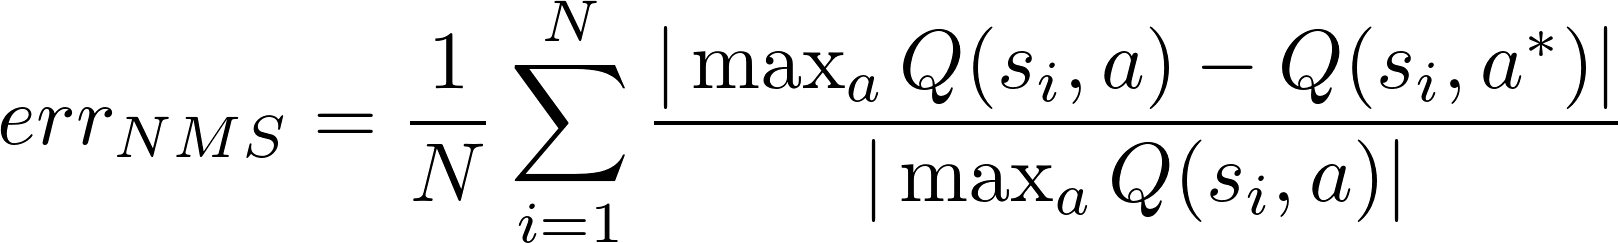
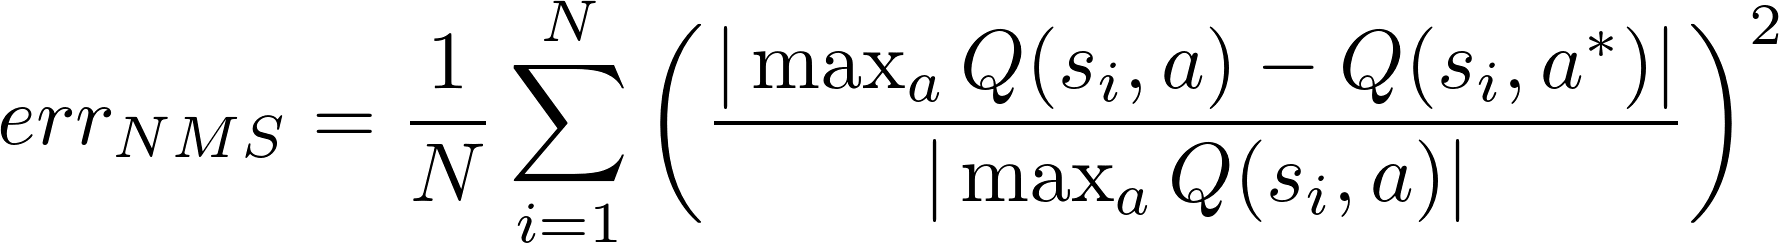
working on readme

diff --git a/README.md b/README.md
@@ -103,15 +103,33 @@ is replaced with
 
 Note that this doesn't truly decouple action selection and evaluation because the target network is a copy of a previous online network.
 
-## Results
+## Analysis
 ### Evaluating the Model
-In addition to the "eyeball test" of Swain Bot's predictions (i.e. no illegal submissions, correct number of roles, overall "meta-feel" of drafts, etc.), we're also interested in a quantitative measure of performance. One approach is to treat predictions as we would with a classifier and measure the fraction of predictions which agree with what was actually submitted in a winning draft. However, it's important to recall that our objective is to predict valuable submissions which may not necessarily overlap with what a specific team is likely to submit. It is often the case that multiple submissions have roughly equal value (this is particularly true for bans and early submissions) and that selecting from them is mostly a function of the biases of the drafting team. Since team identities aren't included as part of the input, it is unrealistic to expect the model to match the exact submission made for every team. A simple way to try and compensate for this is to group the top `k` submissions and regard these as a set of "good" picks according to the model. Then we measure accuracy as the fraction of submissions made that are contained in the predicted "good" submission pools for each state. 
+In addition to the "eyeball test" of Swain Bot's predictions (i.e. no illegal submissions, correct number of roles, overall "meta-feel" of drafts, etc.), we're also interested in a quantitative measure of performance. 
 
-Another approach is to examine the difference in estimated Q-values between the top prediction (`max_a{Q(s,a)}`) and the actual submission (`Q(s,a*)`). The difference between these two values estimates how far off the actual action that was submitted is from taking over the top prediction. If `a*` is really a good submission for this state this difference should be relatively small. If we use this to compute a normalized mean square error over a set of states we should get an estimate of the model performance:
+One approach is to treat predictions as we would with a classifier and measure the fraction of predictions which agree with what was actually submitted in a winning draft. However, it's important to recall that our objective is to predict valuable submissions which may not necessarily overlap with what a specific team is likely to submit. It is often the case that multiple submissions are suited for the draft and as a result each have roughly equal value (this is particularly true for bans and early submissions). Selecting amongst these valid picks is mostly a function of the biases of the drafting team. Since team identities aren't included as part of the input, it is unrealistic to expect the model to match the exact submission made for every team. A simple way to try and compensate for this is to group the top `k` submissions and regard these as a set of "good" picks according to the model. Then we measure accuracy as the fraction of submissions made that are contained in the predicted "good" submission pools for each state. 
+
+Another approach is to examine the difference in estimated Q-values between the top prediction (`max_a{Q(s,a)}`) and the actual submission (`Q(s,a*)`). The difference between these two values estimates how far off the actual action that was submitted is from taking over the top prediction. If `a*` is really a good submission for this state this difference should be relatively small. If we use this to compute a normalized mean squared error over a set of states we should get an estimate of the model performance:
 
 <img src="common/images/nms_error.png" width="360">
 
-Notice that if the model were to assign all actions the same value then this measure of error would be trivially zero. So just like the classification measure of accuracy, this measure of error is not perfect.
+Note that if the model were to assign all actions the same value then this measure of error would be trivially zero. So just like the classification measure of accuracy, this measure of error is not perfect. Nevertheless the combination gives some insight into how the model performs.
+
+### Training Data
+The model was trained in two stages. For the first stage, data was obtained from matches from the 2017 Summer Season and 2017 Worlds Championship Qualifiers for five major international regions:
+- North America (NA LCS)
+- Europe (EU LCS)
+- China (LPL)
+- Korea (LCK)
+- Taiwan, Hong Kong, & Macau (LMS)
+
+Between the two training stages the model went through a dampening iteration (in which the value of all predictions were reduced) in order to simulate a change in metas associated with the gap in time between the Summer Season and Worlds Championships. The second stage of training used data from the 119 matches played during the 2017 World Championship with 3 matches from the knockout stages held out for validation. The model learned on each match in the training set for 100 epochs (i.e. each match was seen 100 times in expectation).
+
+Validation Matches
+<img src="common/images/validation_matches.png" width="360">
+
+## Looking Ahead
+
 
 
 ## Disclaimer
